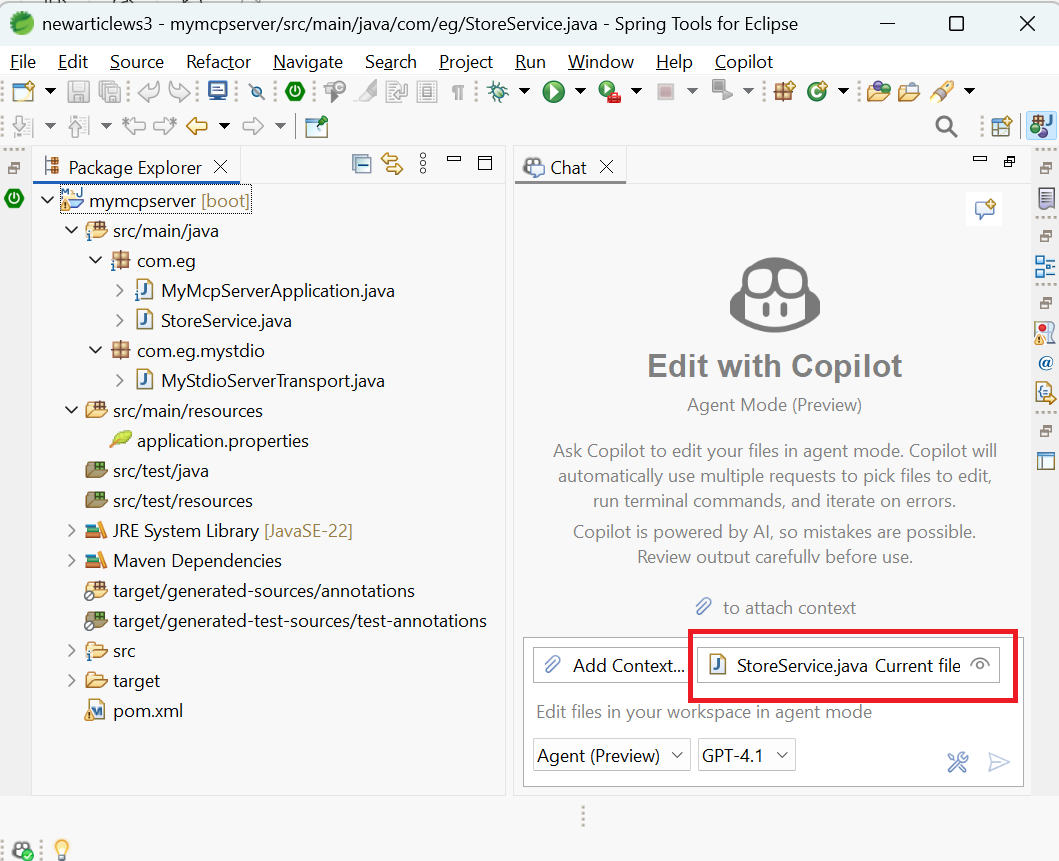
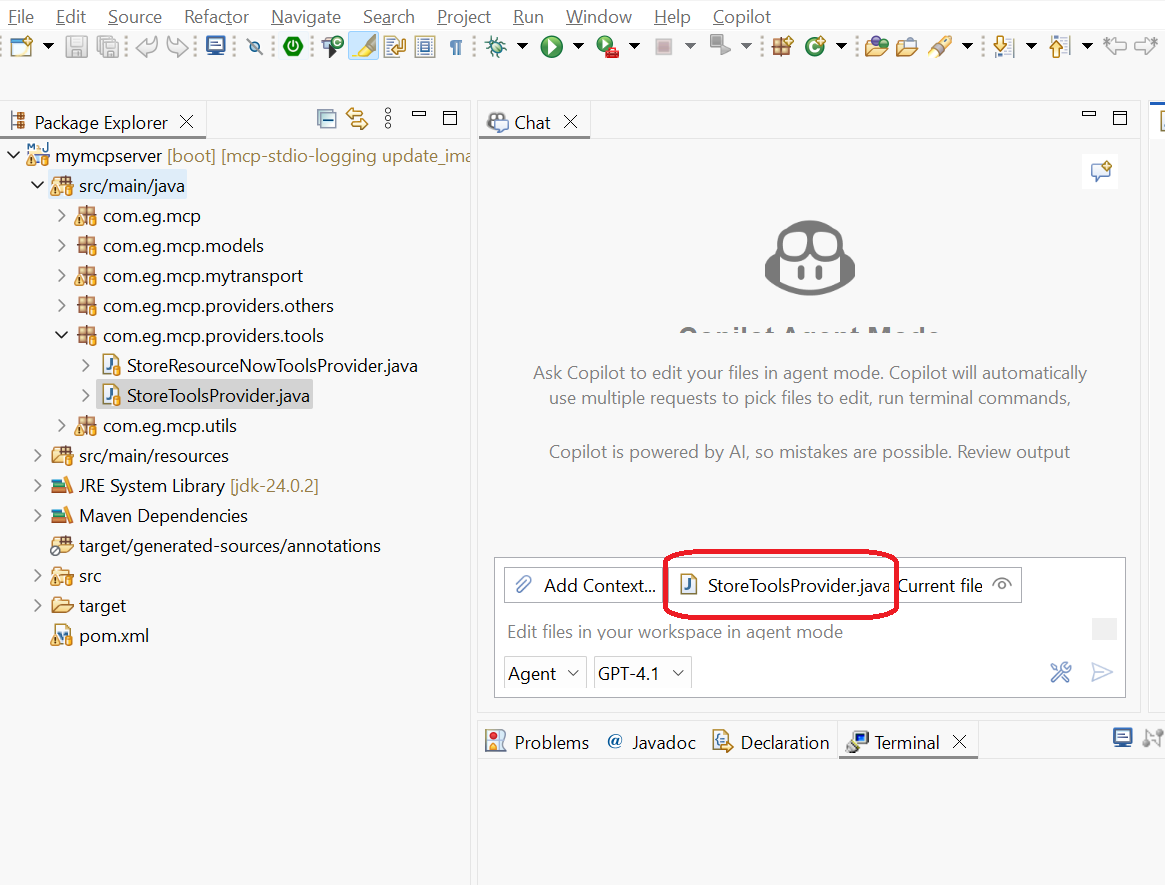
Updating some images (#5)
Updating some images and minor changes

diff --git a/README.md b/README.md
@@ -659,7 +659,7 @@ Here search for "Github Copilot" and press the "Go" Button.
 <img src="images/market-place2.png" alt="Install Copilot" width="600"/>  
 Press the install button and carry out the remaining steps.   
 0.8.0 was the version available at the time of writing this.  
-0.9.2 is available now and behaves mostly the same for the purpose of this article.   
+0.9.3 is available now and behaves mostly the same for the purpose of this article.   
 
 #### Github Copilot eclipse plugin configuration
 
@@ -696,7 +696,7 @@ Let's change the configuration to
 }
 ```
 <img src="images/copilot-config2.png" alt="Edit MCP Server Configurations" width="600"/>  
-The image might show jdk 22 but It have upgrdaed my jdk to jdk 24 as shown in the json.   
+   
 
 
 Press "Apply and close" button.
@@ -706,12 +706,11 @@ Revisit Copilot> Edit Preferences > GitHub CoPilot> MCP
 <img src="images/copilot-config3.png" alt="Review MCP Server Configurations" width="600"/>   
 
 As I went about coding the number of tools actually increased than what you can see listed here.  
-Also The image might show jdk 22 but It have upgrdaed my jdk to jdk 24.
 
 Visit Copilot > Open Chat  
 <img src="images/set-agent-mode.png" alt="Set Agent Mode" width="600"/>  
 **Ensure Agent Mode is Enabled**
-This is the much-discussed Agent Mode, where GitHub Copilot can go beyond suggestions — it can actively write, modify and refactor your code among other capabilities.  In version 0.9.2 Agent mode is no longer in just Preview mode. Do please enable Agent Mode.   
+This is the much-discussed Agent Mode, where GitHub Copilot can go beyond suggestions — it can actively write, modify and refactor your code among other capabilities.  In version 0.9.3 Agent mode is no longer in just Preview mode. Do please enable Agent Mode.   
 
 
 ### Checking the logs
@@ -775,11 +774,11 @@ But I can’t resist sharing a few conversations that illustrate how **MCP-power
 
 #### How Workspace Context Changes Agent Behavior
 
-Showing below the conversation in two flavours of my CoPilot. In one I have a totally empty eclipse workspace. In another I have the server code in the workspace. I am in general trying to ask the same questions. I also have the java class StoreService.java open in eclipse editor. Its also automatically added to the Copilot context.  In both the MCP configuration is done in the same way. I have been running them seperately not together. The actual text might vary a little on each run but you will be able to spot the main differences.  
+Showing below the conversation in two flavours of my CoPilot. In one I have a totally empty eclipse workspace. In another I have the server code in the workspace. I am in general trying to ask the same questions. I also have the java class **StoreToolsProvider.java** open in eclipse editor. Its also automatically added to the Copilot context.  In both the MCP configuration is done in the same way. I have been running them seperately not together. The actual text might vary a little on each run but you will be able to spot the main differences.  
 
 | empty workspace - workspace without MCP server code | workspace with MCP server code |
 |----------|----------|
-| <img src="images/ws_without_code.png" alt="Empty Wokspace" width="400"/>     | <img src="images/ws_with_code.png" alt="Worspace with MCP server code" width="400"/>      |
+| <img src="images/ws_without_code.png" alt="Empty Wokspace" height="300"/>     | <img src="images/ws_with_code.png" alt="Worspace with MCP server code" height="300"/>      |
 
 
 | empty workspace - workspace without MCP server code | workspace with MCP server code |
